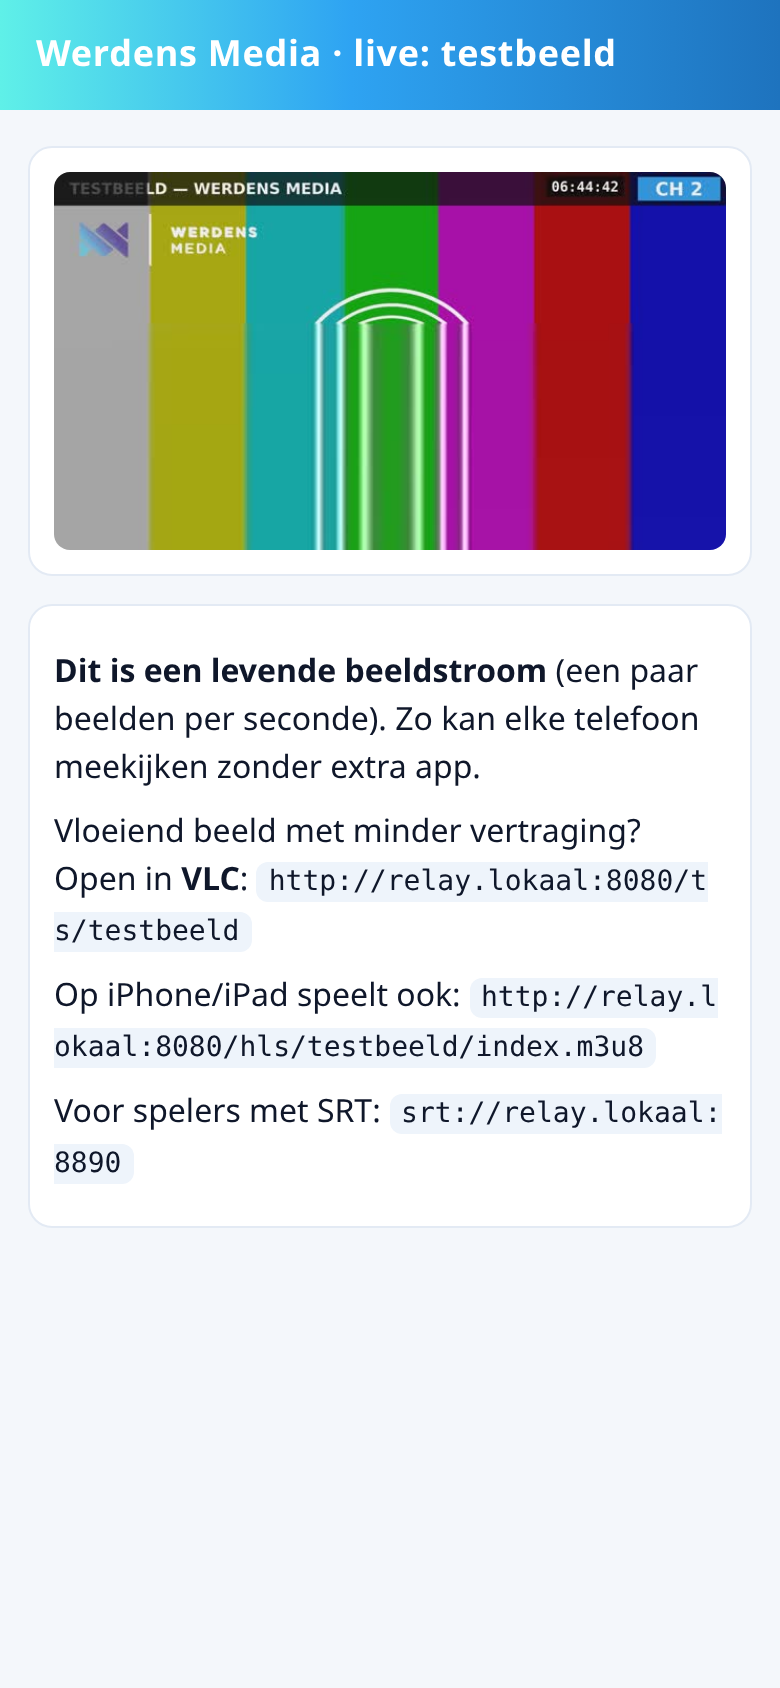
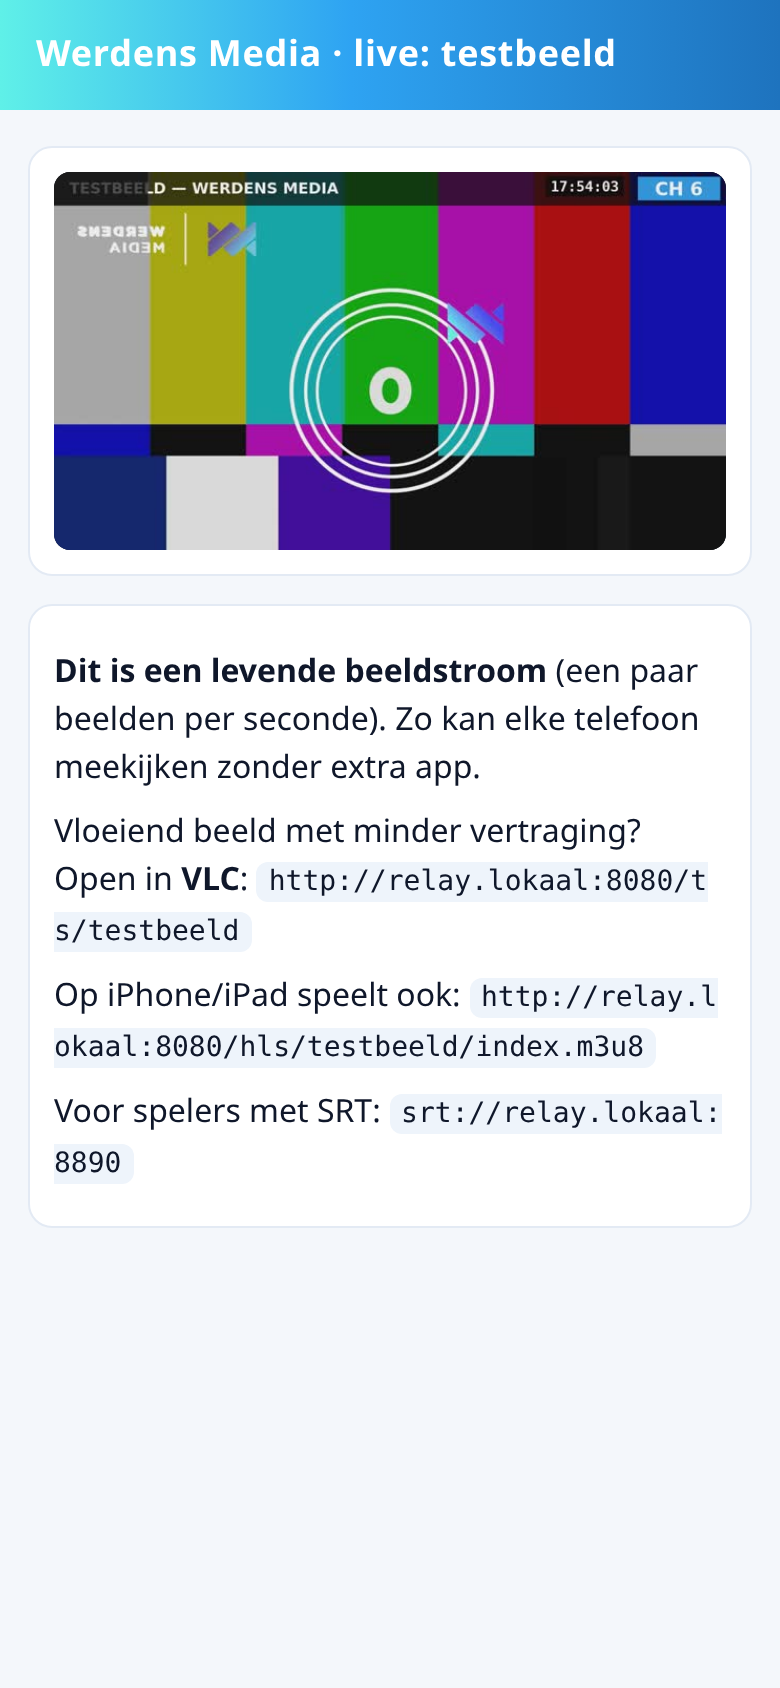
Uitzending blijft bij de klok en een nieuwe lus overschrijft niets meer
Drie fouten die samen zorgden voor een stilstaand en achterlopend beeld:

- Het bouwen schreef over het bestand dat de lopende uitzending las, waardoor
  ffmpeg halverwege over nieuwe inhoud struikelde en de uitzending stilviel.
  Het bord bouwt nu naar lus-<tijdstip>.mp4 en zet de uitzending pas over als
  het klaar is (met opruiming van oude lussen).
- De uitzending kon ongemerkt uren achterlopen op de klok. Het bord leest nu de
  voortgang van de uitzender (speed=), toont de snelheid, waarschuwt boven 15 s
  en zet de uitzending boven 30 s opnieuw in. Standaard lichter formaat (720p25)
  en de installer maakt 2 cores in plaats van 1.
- De bewaker van een oude uitzending wiste de toestand van de nieuwe.

Daarnaast: een kijker die over HTTP niet bijhoudt springt naar het laatste
keyframe in plaats van afgekoppeld te worden, zodat hij niet eindeloos
achterblijft (de relay telt dat als bijgesprongen).

diff --git a/dashboard/bord.html b/dashboard/bord.html
@@ -352,6 +352,13 @@ function tekenStaat(s){
     : (relay0 && relay0.online
         ? `“${naam}” is in de lucht (niet via dit bord gestart)`
         : "uitzending uit");
+  // Hoe snel de uitzender werkt en of het beeld achterloopt op de klok. Zonder
+  // deze twee cijfers zie je niet dat een machine het formaat niet bijhoudt.
+  if(s.uitzending.actief && s.uitzending.snelheid)
+    $("#tekstUit").textContent += ` · ${s.uitzending.snelheid}`
+      + (s.uitzending.beelden_per_seconde ? ` (${s.uitzending.beelden_per_seconde})` : "")
+      + (s.uitzending.achterstand > 15
+          ? ` · loopt ${Math.round(s.uitzending.achterstand)} s achter` : "");
   if(s.render.fout) zeg("Bouwen mislukte: " + s.render.fout, true);
 
   const relay = s.relay || {};

diff --git a/dashboard/uitzendbord.py b/dashboard/uitzendbord.py
@@ -18,6 +18,7 @@ from __future__ import annotations
 import argparse
 import base64
 import collections
+import glob
 import hmac
 import json
 import os
@@ -45,10 +46,10 @@ STANDAARD = {
     "tijdcode": "serverklok",
     "kanaalvak": True,
     "logo": True,
-    "formaat": "1080",
+    "formaat": "720",
     "fps": 25,
     "interlaced": False,
-    "bitrate": "8M",
+    "bitrate": "4M",
     "preset": "veryfast",
     "kanalen": 8,
     "slot": 3.0,
@@ -57,6 +58,14 @@ STANDAARD = {
 }
 
 MEDIA_EXTENSIES = streams.MEDIA_EXTENSIES
+
+# Hoeveel het beeld mag achterlopen op de klok voordat we ingrijpen. Een file-lus
+# met een klok erin hoort in echte tijd te lopen; een machine die het formaat niet
+# bijhoudt loopt anders uren achter (het beeld toont dan een tijd van lang geleden).
+DREMPEL_LET_OP = 15.0        # seconden: hier waarschuwen we
+DREMPEL_HERSTART = 30.0      # seconden: hier zetten we de uitzending opnieuw in
+MAX_HERSTARTS = 3
+
 PRESETS = ["ultrafast", "veryfast", "faster", "fast", "medium", "slow"]
 LOGO_PAD = os.environ.get(
     "SRT_LOGO", "")          # leeg = geen logo; zet SRT_LOGO op een png om er een te gebruiken
@@ -165,7 +174,10 @@ def laad_instellingen() -> None:
     except (OSError, ValueError):
         return
     if isinstance(gegevens, dict):
-        INSTELLINGEN.update({k: v for k, v in gegevens.items() if k in STANDAARD})
+        # "lusbestand" hoort erbij: dat is het bestand dat de uitzending leest, en
+        # zonder deze uitzondering vergeet het bord na een herstart welke lus er is
+        INSTELLINGEN.update({k: v for k, v in gegevens.items()
+                             if k in STANDAARD or k == "lusbestand"})
 
 
 def werk_pad(naam: str) -> str:
@@ -290,7 +302,11 @@ def render_klaar(uitpad: str, opties: dict) -> None:
 
 
 def doe_render() -> None:
-    uitpad = werk_pad("lust.mp4")
+    # Nooit schrijven naar het bestand dat een lopende uitzending leest: ffmpeg
+    # struikelt dan halverwege over nieuwe inhoud (decodeerfouten) en de
+    # uitzending valt stil. Bouw naar een nieuw bestand en zet de uitzending pas
+    # over als het klaar is.
+    uitpad = werk_pad("lus-" + time.strftime("%Y%m%d-%H%M%S") + ".mp4")
     filterpad = werk_pad("beeld.filter")
     tonenpad = werk_pad("tonen.wav")
     try:
@@ -338,6 +354,7 @@ def doe_render() -> None:
         with SLOT:
             S["render"].update({"voortgang": 100.0, "klaar": True,
                                 "bestand": uitpad, "fout": None})
+        nieuwe_lus_in_gebruik(uitpad)
     except Exception as fout:                              # noqa: BLE001
         with SLOT:
             S["render"]["fout"] = str(fout)[:400]
@@ -374,6 +391,44 @@ def start_render() -> bool:
     return True
 
 
+def nieuwe_lus_in_gebruik(uitpad: str) -> None:
+    """De verse lus in gebruik nemen en een lopende uitzending overzetten."""
+    with SLOT:
+        INSTELLINGEN["lusbestand"] = uitpad
+        loopt = bool(S["uitzending"]["actief"])
+    bewaar_instellingen()
+    meld(f"nieuwe lus in gebruik: {os.path.basename(uitpad)}")
+    if loopt:
+        meld("de uitzending loopt — ik zet hem over op de nieuwe lus")
+        veilige_thread(herstart_uitzending, naam="overzetten")
+    veilige_thread(ruim_oude_lussen_op, uitpad, naam="lussen-opruimen")
+
+
+def herstart_uitzending() -> None:
+    """De uitzending opnieuw inzetten (voor een overzetting of om bij te komen)."""
+    stop_uitzending()
+    time.sleep(2.0)
+    try:
+        start_uitzending()
+    except ValueError as fout:                              # noqa: BLE001
+        meld(f"opnieuw starten van de uitzending lukte niet: {fout}")
+
+
+def ruim_oude_lussen_op(huidig: str) -> None:
+    """Oude lusbestanden weg, met ruime marge voor wat nog gelezen kan worden."""
+    nu = time.time()
+    for pad in glob.glob(werk_pad("lus-*.mp4")) + [werk_pad("lust.mp4")]:
+        if pad == huidig or not os.path.exists(pad):
+            continue
+        if nu - os.path.getmtime(pad) < 600:                # tien minuten marge
+            continue
+        try:
+            os.remove(pad)
+            meld(f"oude lus opgeruimd: {os.path.basename(pad)}")
+        except OSError:
+            pass
+
+
 # -------------------------------------------------------------- uitzending ---
 
 
@@ -391,14 +446,46 @@ def bewaak_uitzending(proces: subprocess.Popen, naam: str, verwacht: int) -> Non
         if verwacht and stand["sporen"] < verwacht:
             meld(f"LET OP: verwacht {verwacht} sporen, relay telt er "
                  f"{stand['sporen']} — gaat er onderweg een spoor verloren?")
+    herstarts = 0
     while proces.poll() is None:
         stand = relay_status(naam)
         with SLOT:
             if stand.get("bekend"):
                 S["uitzending"]["relay"] = stand
+            media = S["uitzending"].get("media_tijd")
+            gestart = S["uitzending"].get("gestart") or time.time()
+        looptijd = time.time() - gestart
+        if media and looptijd > 10:
+            # De uitzending hoort in echte tijd te lopen: het beeld mag niet
+            # achterblijven bij de klok. media_tijd is hoever ffmpeg gekomen is.
+            achterstand = looptijd - media
+            with SLOT:
+                S["uitzending"]["achterstand"] = round(achterstand, 1)
+            if achterstand > DREMPEL_LET_OP:
+                meld(f"LET OP: de uitzending loopt {achterstand:.0f} s achter — "
+                     "deze machine houdt dit formaat niet bij. Kies een lichter "
+                     "formaat, een snellere preset of meer cores voor de container.")
+            if achterstand > DREMPEL_HERSTART and herstarts < MAX_HERSTARTS:
+                herstarts += 1
+                meld(f"de uitzending loopt {achterstand:.0f} s achter op de klok — "
+                     f"ik zet hem opnieuw in om weer bij de tijd te komen "
+                     f"({herstarts} van {MAX_HERSTARTS})")
+                veilige_thread(herstart_uitzending, naam="bijkomen")
+                return
+            if herstarts >= MAX_HERSTARTS and achterstand > DREMPEL_HERSTART:
+                herstarts += 1                     # één keer melden, niet blijven zeuren
+                meld("de uitzending blijft achterlopen; ik stop met opnieuw "
+                     "inzetten. Neem een lichter formaat of meer cores.")
         time.sleep(5)
     with SLOT:
-        S["uitzending"].update({"actief": False, "proc": None})
+        # Alleen opruimen als dit nog steeds de lopende uitzending is: na een
+        # overzetting loopt er al een nieuwe, en een oude bewaker mag die
+        # toestand niet wissen (het bord zou dan "uit" melden terwijl het beeld
+        # gewoon loopt).
+        if S["uitzending"].get("proc") is proces:
+            S["uitzending"].update({"actief": False, "proc": None,
+                                    "snelheid": None, "achterstand": None,
+                                    "media_tijd": None})
     if proces.returncode not in (0, -15, -9):
         meld(f"uitzending gestopt met code {proces.returncode} — zie het log")
     else:
@@ -409,8 +496,8 @@ def start_uitzending() -> dict:
     with SLOT:
         if S["uitzending"]["actief"]:
             raise ValueError("er loopt al een uitzending — stop die eerst")
-    lusbestand = werk_pad("lust.mp4")
-    if not os.path.exists(lusbestand):
+    lusbestand = INSTELLINGEN.get("lusbestand") or werk_pad("lust.mp4")
+    if not lusbestand or not os.path.exists(lusbestand):
         raise ValueError("er is nog geen lusbestand — klik eerst op 'bouwen'")
     relay = CONFIG["relay"]
     if not relay.get("wachtwoord"):
@@ -441,10 +528,30 @@ def start_uitzending() -> dict:
 
 
 def lees_procesuitvoer(proces: subprocess.Popen) -> None:
+    """Leest de uitvoer van de uitzender: voortgang eruit, meldingen in het log."""
     for regel in (proces.stdout or ()):
         regel = regel.strip()
-        if regel:
-            meld(regel[:400])
+        if not regel:
+            continue
+        if regel.startswith("out_time_us="):
+            waarde = regel.split("=", 1)[1]
+            if waarde.isdigit():
+                with SLOT:
+                    S["uitzending"]["media_tijd"] = int(waarde) / 1e6
+            continue
+        if regel.startswith("speed="):
+            with SLOT:
+                S["uitzending"]["snelheid"] = regel.split("=", 1)[1].strip()
+            continue
+        if regel.startswith("fps="):
+            with SLOT:
+                S["uitzending"]["beelden_per_seconde"] = regel.split("=", 1)[1].strip()
+            continue
+        if regel.startswith(("frame=", "bitrate=", "total_size=", "out_time=",
+                             "out_time_ms=", "dup_frames=", "drop_frames=",
+                             "stream_", "progress=")):
+            continue
+        meld(regel[:400])
 
 
 def veilige_thread(doel, *argumenten, naam: str = "taak") -> threading.Thread:
@@ -681,6 +788,10 @@ class Bord(BaseHTTPRequestHandler):
             uitzending = {"actief": S["uitzending"]["actief"],
                           "naam": S["uitzending"].get("naam"),
                           "gestart": S["uitzending"].get("gestart"),
+                          "snelheid": S["uitzending"].get("snelheid"),
+                          "beelden_per_seconde":
+                              S["uitzending"].get("beelden_per_seconde"),
+                          "achterstand": S["uitzending"].get("achterstand"),
                           "relay": S["uitzending"].get("relay", {})}
         naam = uitzending["naam"] or veilige_naam(instellingen["streamnaam"])
         return {

diff --git a/hub/hub.py b/hub/hub.py
@@ -141,17 +141,41 @@ class HttpKijker:
         self.gestopt = threading.Event()
         self.verzonden = 0
         self.gemist = 0
+        self.bijgesprongen = 0
         self.thread = threading.Thread(target=self._verzend, daemon=True,
                                        name=f"http-{naam}")
 
     def start(self) -> None:
         self.thread.start()
 
-    def stuur(self, brok: bytes) -> None:
+    def stuur(self, brok: bytes) -> bool:
+        """Zet een brok in de wachtrij; onwaar = de kijker houdt het niet bij."""
         try:
             self._rij.put_nowait(brok)
+            return True
         except queue.Full:
             self.gemist += 1
+            return False
+
+    def spring_naar_live(self, aanloop: bytes) -> None:
+        """Haal de opgelopen achterstand weg en begin bij het laatste keyframe.
+
+        Een kijker die niet bijhoudt mag de stroom niet beschadigen (geen gat
+        midden in een beeldgroep, daar blijft een speler op hangen), maar ook
+        niet eindeloos achterblijven: dan kijkt hij minuten later dan de rest.
+        Daarom gooien we zijn wachtrij leeg en zetten hem op het laatste
+        keyframe. Hij slaat dus hele beeldgroepen over in plaats van brokken,
+        en omdat elk pakket heel blijft, blijft de stroom over TCP heel.
+        """
+        while True:
+            try:
+                self._rij.get_nowait()
+            except queue.Empty:
+                break
+        self.bijgesprongen += 1
+        try:
+            self._rij.put_nowait(aanloop)
+        except queue.Full:
             self.sluit()
 
     def _verzend(self) -> None:
@@ -205,6 +229,7 @@ class Stroom:
         self._pes_start = 0                 # waar begon het laatste beeld?
         self.aanloop_vol = False
         self.kijker_gemist = 0
+        self.kijker_bijgesprongen = 0
         self.kijker_weggegooid = 0
         self.ts = tssplit.TsKijker()
         self.stroomtijd: float | None = None
@@ -384,6 +409,8 @@ class Stroom:
                 self.http_kijkers.remove(kijker)
                 if kijker.gemist:
                     self.kijker_gemist += kijker.gemist
+                if kijker.bijgesprongen:
+                    self.kijker_bijgesprongen += kijker.bijgesprongen
                 aantal = self.aantal_kijkers
             else:
                 aantal = None
@@ -427,7 +454,10 @@ class Stroom:
                         self.srt_kijkers.remove(kijker)
                 kijker.sluit()
         for kijker in http_kijkers:
-            kijker.stuur(brok)
+            if not kijker.stuur(brok):
+                # De kijker houdt het niet bij: laat hem hele beeldgroepen
+                # overslaan in plaats van de stroom te beschadigen.
+                kijker.spring_naar_live(self._aanloop_bytes())
 
     def _werk_lus(self) -> None:
         """Ontleedt de stroom: programmatabel, keyframes, segmenten en aanloop."""
@@ -513,6 +543,7 @@ class Stroom:
             "srt_kijkers": len(self.srt_kijkers),
             "http_kijkers": len(self.http_kijkers),
             "gemist": self.kijker_gemist,
+            "bijgesprongen": self.kijker_bijgesprongen,
             "segmenten": self.hls.teller,
             "sporen": self._sporen(),
             # Het aantal échte sporen uit de programmatabel. "_sporen" geeft de

diff --git a/tests/test-dashboard.py b/tests/test-dashboard.py
@@ -290,7 +290,13 @@ def test_bord(werk: str) -> None:
                 break
         if gebouwd:
             ok(f"het bord bouwt het testbeeld ({gebouwd['voortgang']}%)")
-            lus = os.path.join(bordwerk, "lust.mp4")
+            # Het bord bouwt naar een nieuw bestand (lus-<tijdstip>.mp4), zodat
+            # het bestand dat een lopende uitzending leest nooit overschreven
+            # wordt: daar struikelt ffmpeg anders halverwege over.
+            lus = gebouwd.get("bestand") or os.path.join(bordwerk, "lust.mp4")
+            eis(os.path.basename(lus).startswith("lus-"),
+                f"het bouwen schrijft naar een nieuw lusbestand ({os.path.basename(lus)})")
+            eis(os.path.exists(lus), "het nieuwe lusbestand staat er")
             sporen = ffprobe(lus, "stream=codec_type")
             eis(sporen.count("audio") == 4,
                 f"het lusbestand heeft vier stereosporen ({sporen})")
@@ -302,6 +308,8 @@ def test_bord(werk: str) -> None:
         time.sleep(3)
         _, staat = haal(f"{basis}/api/staat", wachtwoord="geheim123")
         eis(staat["uitzending"]["actief"] is True, "het bord meldt dat het uitzendt")
+        eis("snelheid" in staat["uitzending"] and "achterstand" in staat["uitzending"],
+            "het bord meldt de snelheid en de achterstand van de uitzending")
         eis(staat["uitzending"]["naam"] == "bordproef",
             f"de stream heet zoals ingesteld ({staat['uitzending']['naam']})")
 
@@ -316,7 +324,7 @@ def test_bord(werk: str) -> None:
 
         _, logboek = haal(f"{basis}/api/log?vanaf=0", wachtwoord="geheim123")
         regels = " ".join(r["regel"] for r in logboek.get("regels", []))
-        eis("klaar: lust.mp4" in regels, "het log vertelt dat het bouwen klaar is")
+        eis("klaar: lus-" in regels, "het log vertelt dat het bouwen klaar is")
     finally:
         proces.terminate()
         try:

diff --git a/dashboard/streams.py b/dashboard/streams.py
@@ -337,6 +337,10 @@ def bouw_uitzend_opdracht(looppad: str, host: str, poort: int, naam: str,
     doel = (f"srt://{host}:{poort}"
             f"?streamid=publish:{naam}:{gebruiker}:{wachtwoord}")
     opdracht = ["ffmpeg", "-hide_banner", "-loglevel", "warning",
+                # machineleesbare voortgang op de uitvoer: daarmee kan het bord
+                # zien of deze machine het formaat bijhoudt (speed=) en hoeveel
+                # het beeld achterloopt ten opzichte van de klok
+                "-progress", "pipe:1", "-nostats",
                 "-re", "-stream_loop", "-1", "-i", looppad,
                 "-map", "0:v", "-map", "0:a"]
     if opties and tijdcode_modus(opties) == "serverklok":

diff --git a/README.md b/README.md
@@ -100,6 +100,27 @@ De klok van de server wordt tijdens het uitzenden in het beeld getekend; die sta
 kost dus rekenkracht (ongeveer twee derde van één kern bij 1080p). De lus zelf
 wordt één keer gebouwd en daarna met `-c copy` uitgezonden.
 
+**De uitzending moet de klok bijhouden.** Een kanaal met een klok in beeld hoort in
+echte tijd te lopen; een machine die het formaat niet bijhoudt loopt anders uren
+achter en dan zie je in het beeld een tijd van lang geleden. Het bord meet daarom de
+snelheid van de uitzender en toont die naast de status (bijvoorbeeld `0,98x
+(24,4)`). Komt het beeld meer dan 15 s achter, dan meldt het bord dat; boven de 30 s
+zet het de uitzending opnieuw in om weer bij de tijd te komen. Richtlijn:
+
+| Formaat | Nodig |
+|---|---|
+| 720p25 met een live klok | ongeveer 1 kern (de standaard) |
+| 1080p25 met een live klok | 2 tot 3 kernen |
+| 1080p50 of 50i met een live klok | 4 kernen |
+
+Daarom maakt de installer standaard een container met 2 cores. Meer mag:
+`CORES=4 bash <(curl …)`.
+
+**Een nieuwe lus overschrijft nooit het bestand dat loopt.** Het bord bouwt naar een
+nieuw bestand (`lus-<tijdstip>.mp4`) en zet de uitzending pas over als het klaar is.
+Schrijf je over het bestand heen dat een lopende uitzending leest, dan struikelt
+ffmpeg halverwege over de nieuwe inhoud (decodeerfouten) en valt de uitzending stil.
+
 ![kijkpagina op de telefoon](docs/img/kijkpagina-telefoon.png)
 
 ## Beheer in de container
